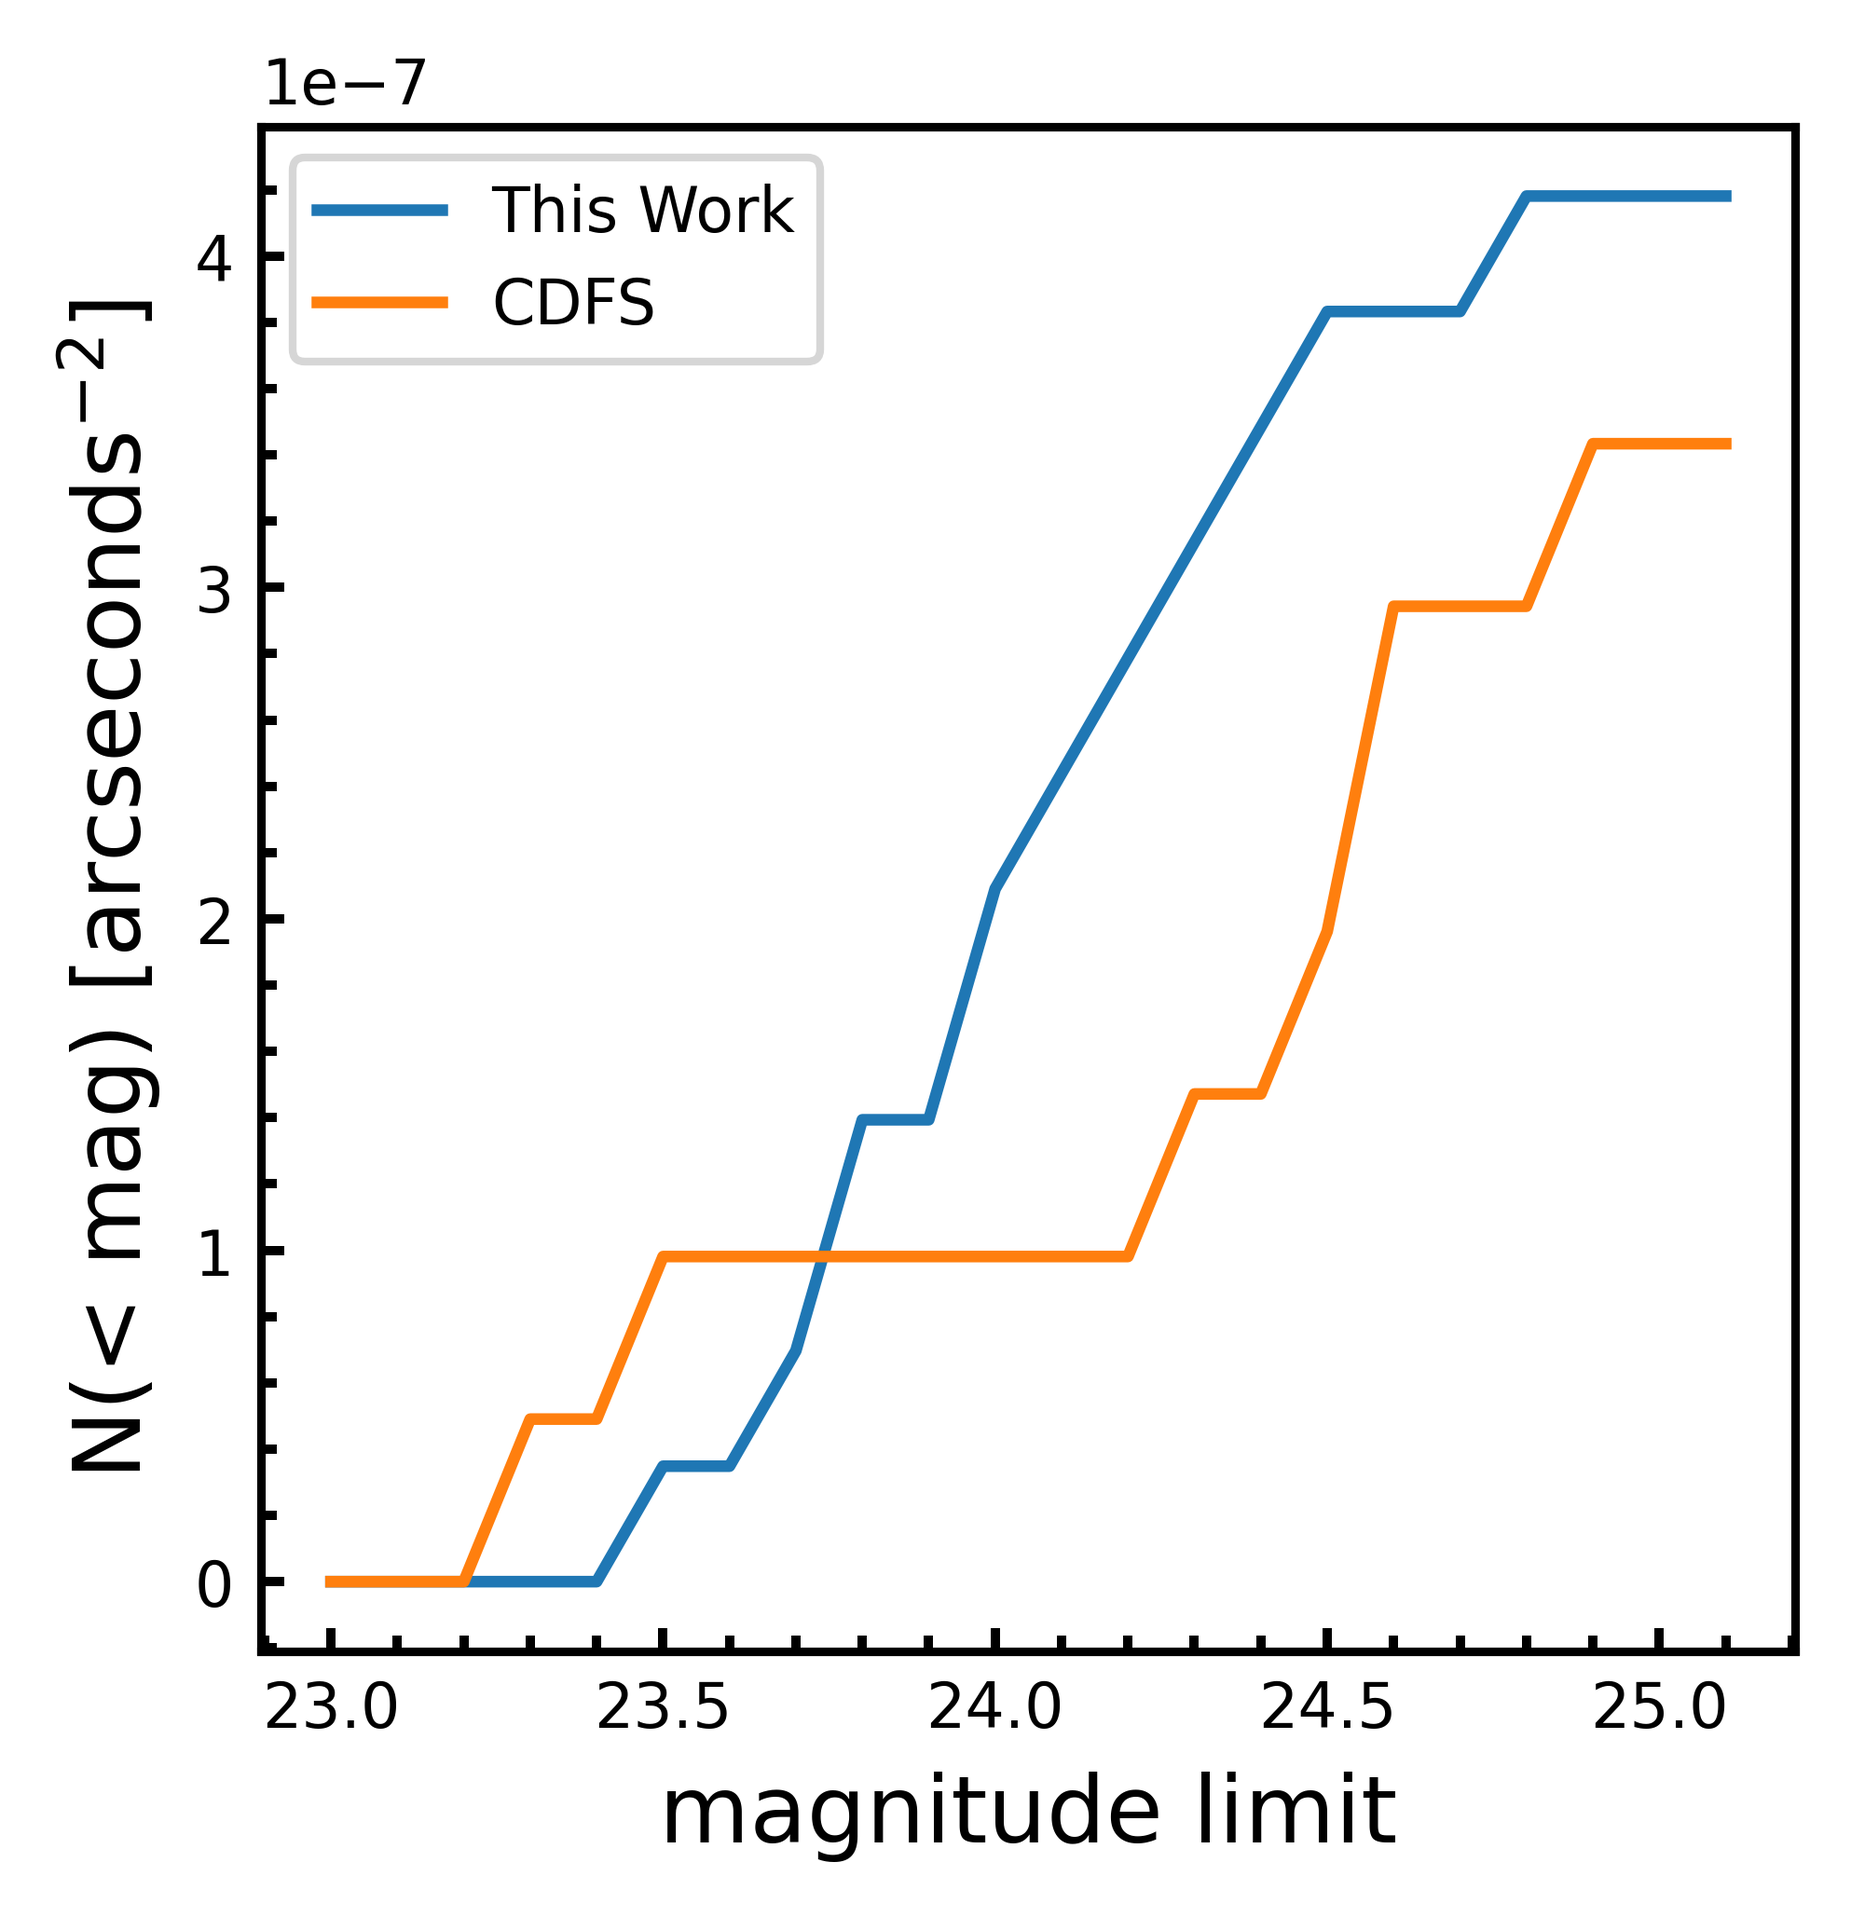
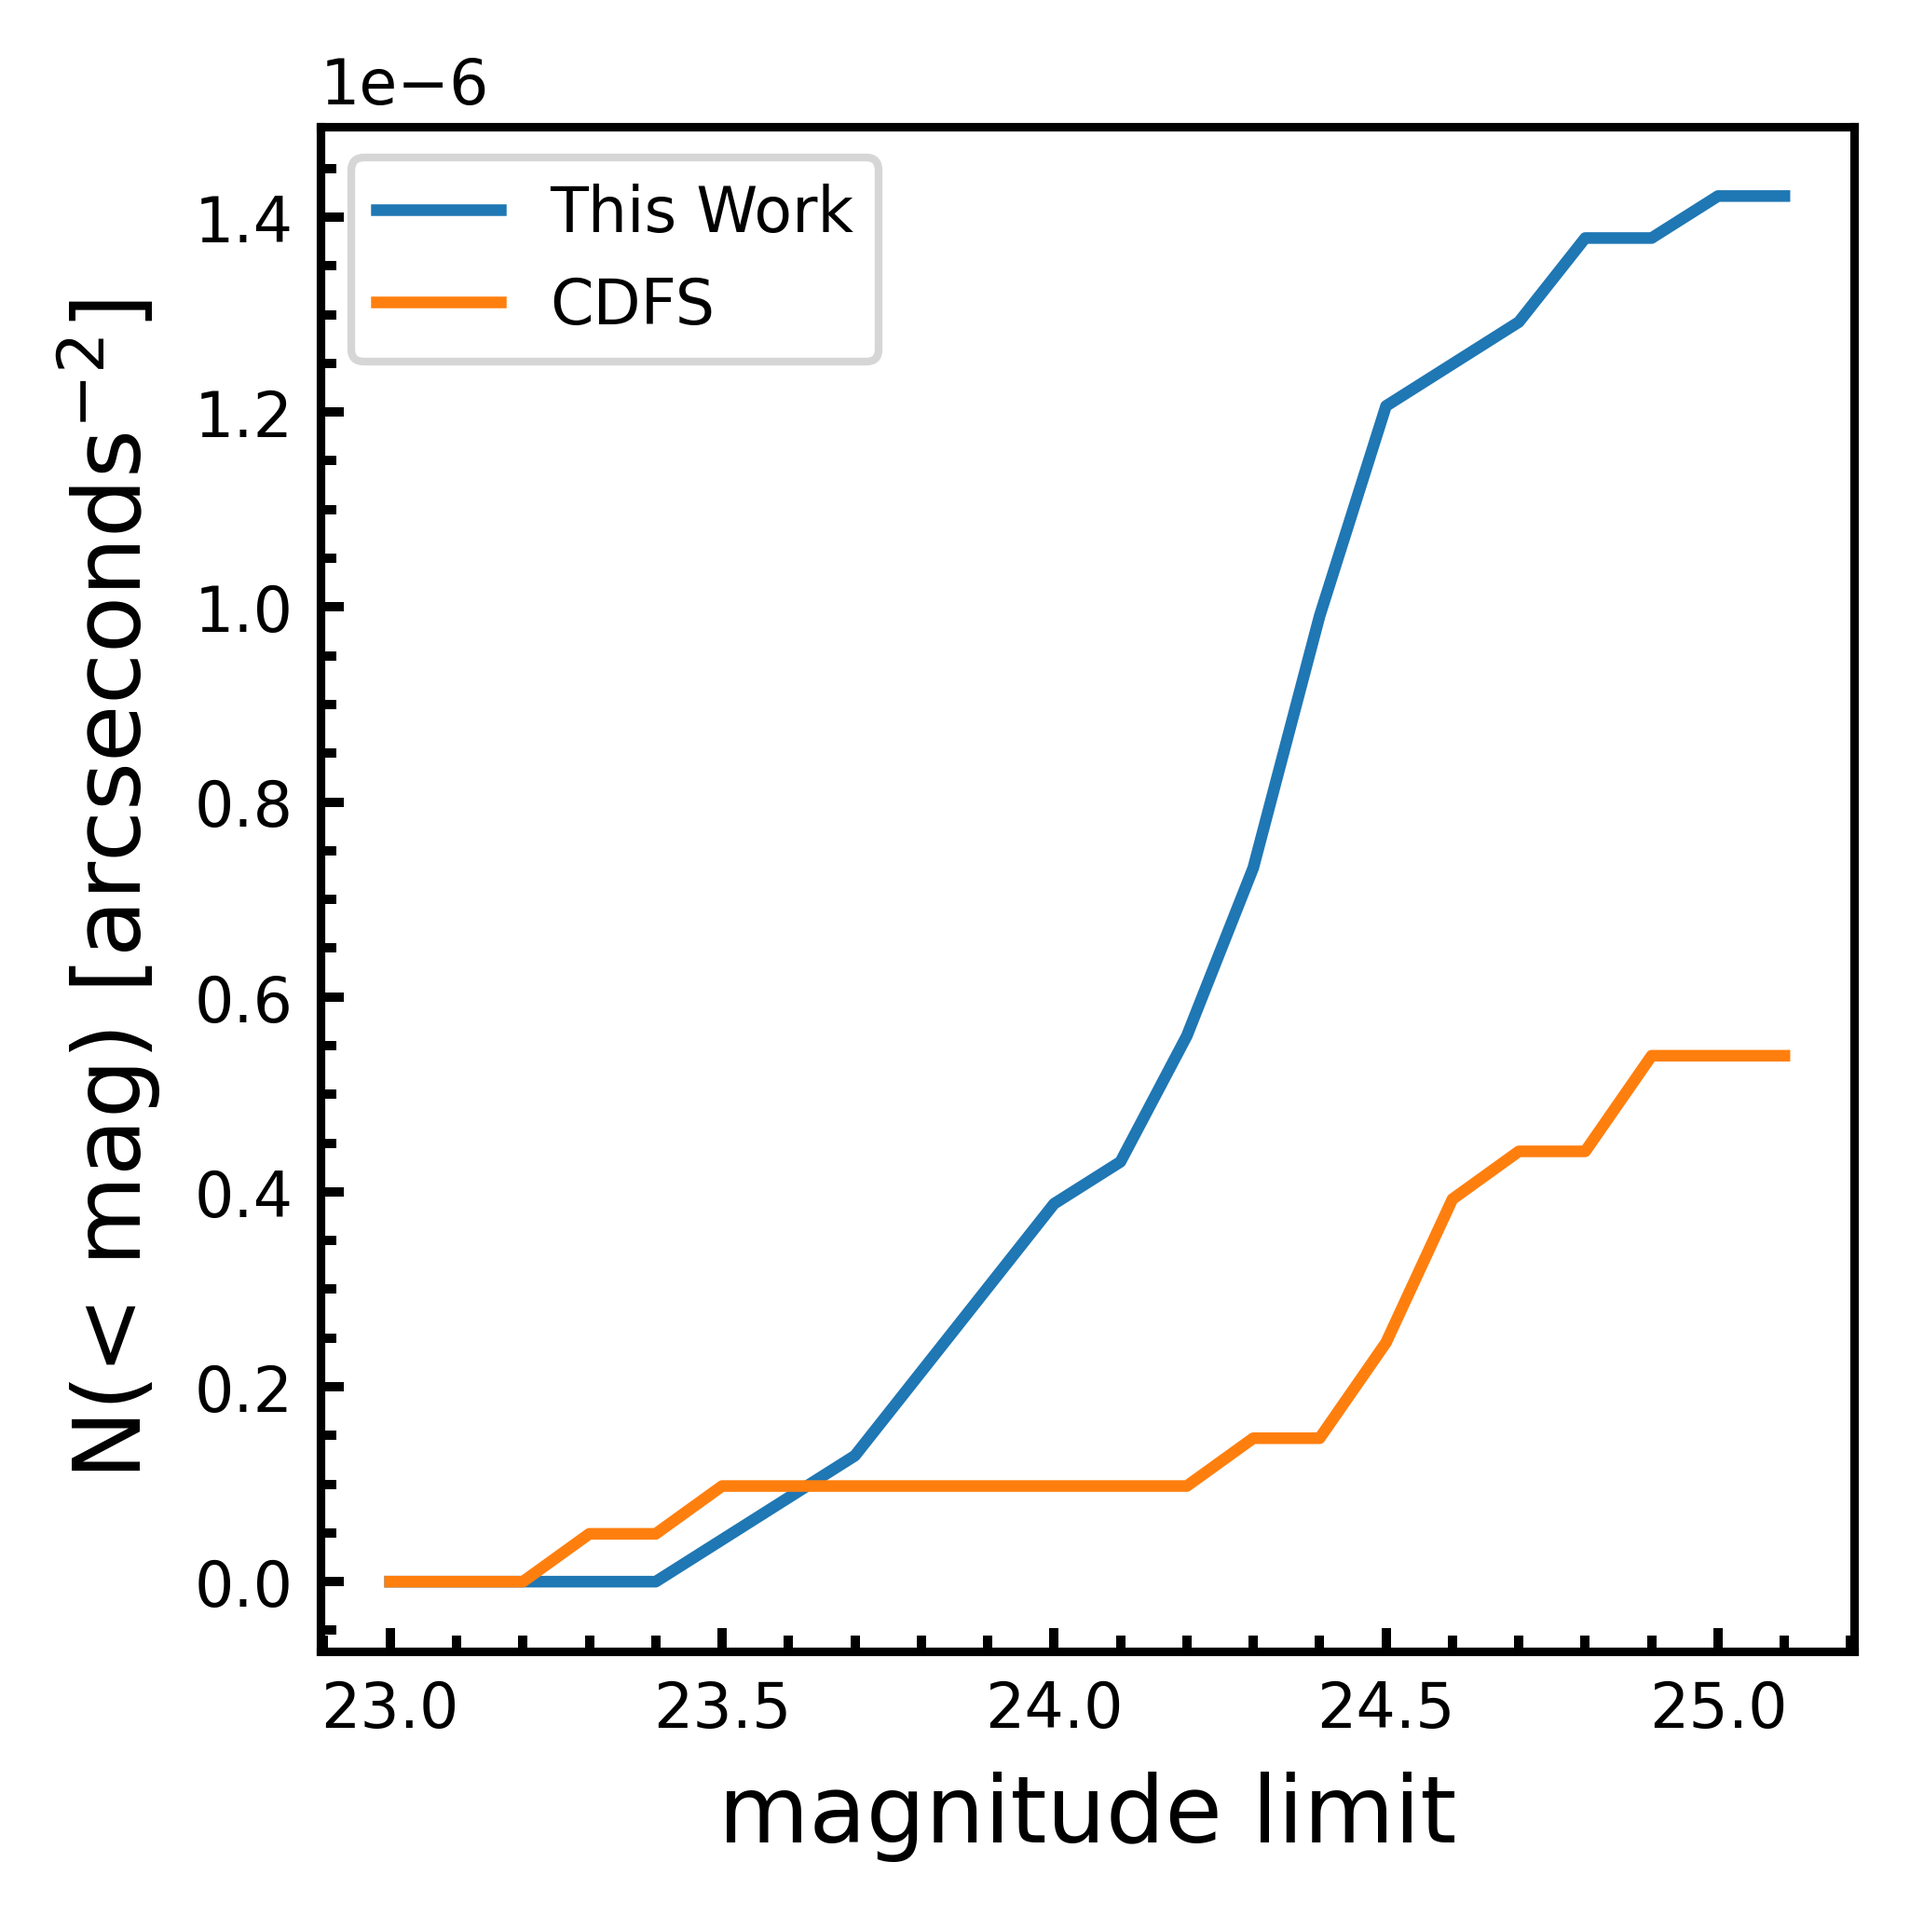
updating areas.

diff --git a/plot_cumulative_eduardo.py b/plot_cumulative_eduardo.py
@@ -15,8 +15,9 @@ from zero_points_cdfs import zero_points_cdfs
 from plotting import start_plot, end_plot
 
 
+INNER_AREA_OF_SUPRESSION = 5487762.05698824
 CDFS_AREA = 20385305 # Arcseconds
-DECAM_AREA = 2.87e7 # Arcseconds
+DECAM_AREA = 2.87e7 # Arcseconds 23212237.94301176  #The area minus the inner region.
 IMACS_AREA = 5.01046e6 # Arcseconds
 
 INFILE_US = 'candidates_e.txt'
